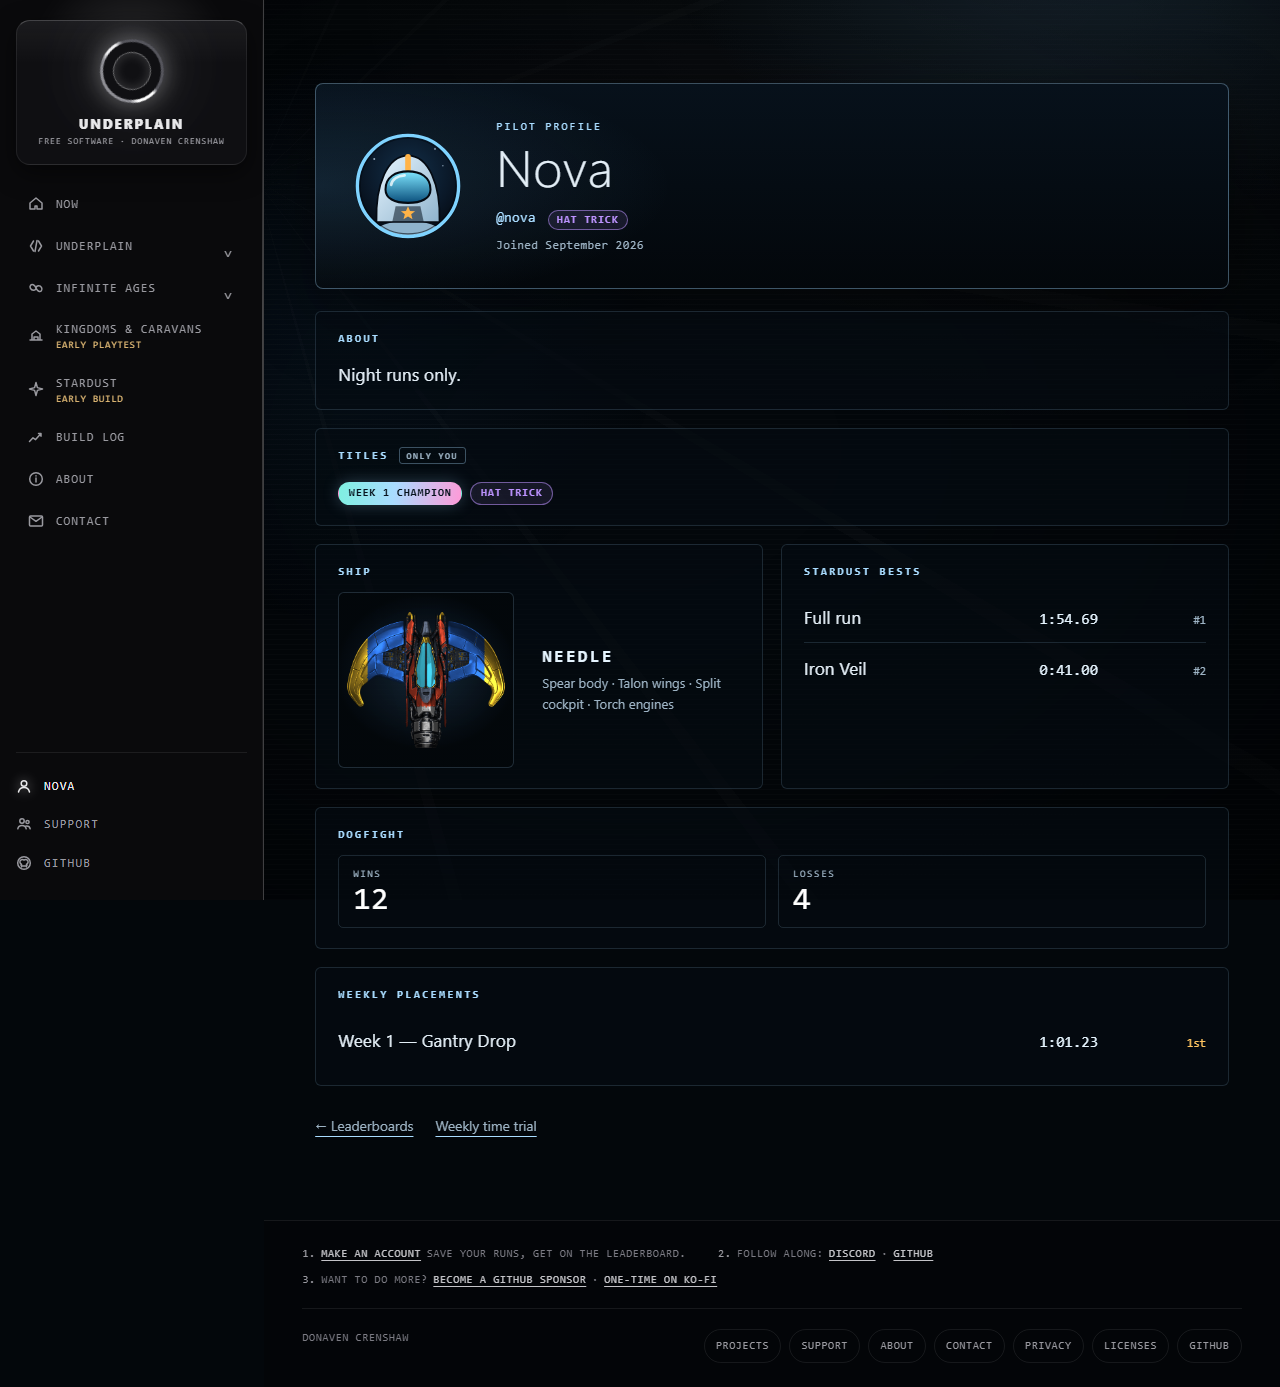
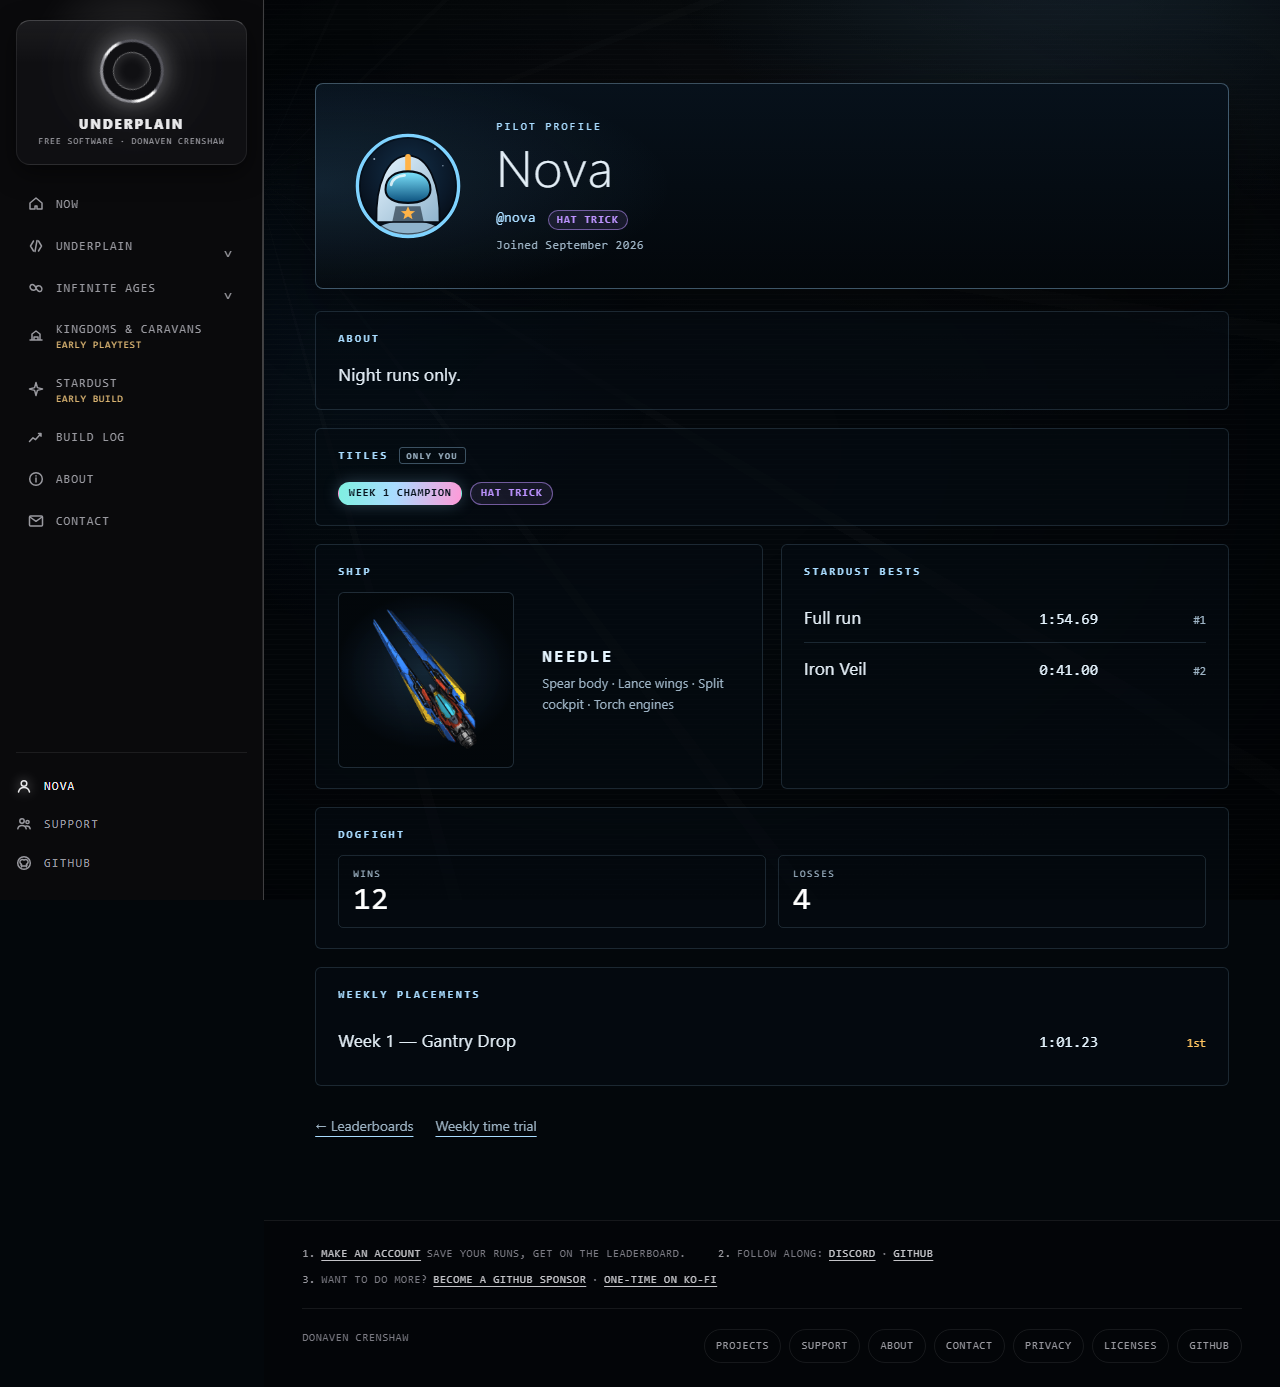
Stardust: custom ships at their real size in every race and on the site
- In the game the equipped ship is drawn at its build size wherever it flies,
  not only on build runs. On standard-ship runs (ranked weekly, circuits) it
  is a skin over the standard hitbox, but the twin-blade Needle no longer
  shrinks to the garage framing.
- On the site, ship cards pose the ship nose up and to the right and scale
  its visible body to fill the frame, so thin ships are not a sliver. Cards
  are a little larger.

Changed region(s): [[0.25, 0.434, 0.4062, 0.558], [0.5, 0.465, 0.5625, 0.496]]

diff --git a/scripts/ship-ui.js b/scripts/ship-ui.js
@@ -62,7 +62,38 @@ export function loadPartChoices(base = window.SITE_BASE || '/') {
 export async function shipCanvas(appearance, { size = 256, base } = {}) {
     if (!appearance || typeof appearance !== 'object') throw new Error('No appearance to draw.');
     const art = await loadShipArt(base);
-    return art.renderAppearance(appearance, null, size);
+    // Render big, then pose it to fill the frame (see posed()).
+    return posed(art.renderAppearance(appearance, null, size * 2), size);
+}
+
+// The game frames every ship by its longest side, so a thin one (the
+// twin-blade Needle is a third as wide as it is long) comes out a sliver in a
+// square card. Pose it like the hangar does, nose up and to the right, and
+// scale so its visible body fills the frame whatever its shape.
+const POSE = (-35 * Math.PI) / 180;
+function posed(src, size) {
+    const w = src.width, h = src.height;
+    const data = src.getContext('2d').getImageData(0, 0, w, h).data;
+    let minX = w, maxX = -1, minY = h, maxY = -1;
+    for (let y = 0; y < h; y += 2) for (let x = 0; x < w; x += 2) {
+        if (data[(y * w + x) * 4 + 3] < 24) continue;
+        if (x < minX) minX = x; if (x > maxX) maxX = x;
+        if (y < minY) minY = y; if (y > maxY) maxY = y;
+    }
+    if (maxX < 0) return src;
+    const cx = (minX + maxX) / 2, cy = (minY + maxY) / 2;
+    const c = Math.abs(Math.cos(POSE)), s = Math.abs(Math.sin(POSE));
+    const bw = maxX - minX + 2, bh = maxY - minY + 2;
+    const scale = (0.92 * size) / Math.max(bw * c + bh * s, bw * s + bh * c);
+    const out = document.createElement('canvas');
+    out.width = out.height = size;
+    const g = out.getContext('2d');
+    g.imageSmoothingQuality = 'high';
+    g.translate(size / 2, size / 2);
+    g.rotate(POSE);
+    g.scale(scale, scale);
+    g.drawImage(src, -cx, -cy);
+    return out;
 }
 
 // Fills `target` with a ship: its picture, its family and the parts it is built

diff --git a/projects/Space-Shooter/gfx/stardustVfx.js b/projects/Space-Shooter/gfx/stardustVfx.js
@@ -1,5 +1,5 @@
 /** Stardust visual language. All helpers preserve Canvas state and never mutate simulation. */
-import { getCourierAppearance, getCourierExhaustPorts } from '../systems/shipAppearance.js';
+import { getCourierAppearance, getCourierExhaustPorts, getEquippedBuild } from '../systems/shipAppearance.js';
 import { buildScale } from '../engine/shipStats.js';
 const TAU = Math.PI * 2;
 const clamp = (v, lo, hi) => Math.max(lo, Math.min(hi, v));
@@ -16,7 +16,12 @@ const STANDARD_PORTS = [{ x: -0.13, y: 0.38, width: 0.13 }, { x: 0.13, y: 0.38, 
 // which sets its size the way scene.ship does for the pilot's own.
 export function drawCourier(ctx, player, scene, keys, unit, img, time, scale = 0.66) {
   // A garage build flying its own physics is drawn at its own size (engine/shipStats.js).
-  const build = player.appearanceCanvas ? player.buildKey : scene?.ship && !player.standardShip ? scene.ship : null;
+  // Drawn at its build's size wherever it flies. On standard-ship runs (ranked
+  // boards, main circuits) a custom ship is a skin over the standard hitbox,
+  // but it should still look the size it is in the garage and in practice.
+  const build = player.appearanceCanvas ? player.buildKey
+    : player.standardShip ? null
+      : scene?.ship || (getCourierAppearance() ? getEquippedBuild() : null);
   const s = unit * 1.6 * scale * (build ? buildScale(build) : 1);
   const active = !scene?.lockedInStart && !scene?.onStartPad && !scene?.showLaunchHint && !scene?.paused;
   const burn = active && scene?.fuel > 0 ? clamp(keys.thrustStrength || 0, 0, 1) : 0;

diff --git a/src/styles/pilot.css b/src/styles/pilot.css
@@ -121,7 +121,7 @@
 .sd-device-tip[hidden] { display: none; }
 
 /* A drawn ship: the game's renderer output with its build underneath. */
-.ship-card { display: grid; grid-template-columns: minmax(0, 14rem) minmax(0, 1fr); align-items: center; gap: 1rem 1.75rem; }
+.ship-card { display: grid; grid-template-columns: minmax(0, 16rem) minmax(0, 1fr); align-items: center; gap: 1rem 1.75rem; }
 .ship-art {
     display: grid;
     place-items: center;
@@ -140,6 +140,6 @@
 .ship-card .ship-parts { font-size: 0.82rem; line-height: 1.6; color: #9db3c4; overflow-wrap: anywhere; }
 @media (max-width: 560px) {
     .ship-card { grid-template-columns: minmax(0, 1fr); justify-items: start; }
-    .ship-art { width: min(100%, 16rem); }
+    .ship-art { width: min(100%, 18rem); }
 }
 @media (prefers-reduced-motion: reduce) { .sd-device { transition: none; } }

diff --git a/src/styles/pages/account.css b/src/styles/pages/account.css
@@ -236,7 +236,7 @@
 /* Your ship: the game's renderer output, its build, and a link to the garage. */
 .acct-ship-body { display: grid; grid-template-columns: minmax(0, 1.2fr) minmax(0, 1fr); gap: var(--space-5) var(--space-6); align-items: center; }
 .acct-card .acct-ship-hint { margin: 0; }
-.acct-ship .ship-card { grid-template-columns: minmax(0, 12rem) minmax(0, 1fr); }
+.acct-ship .ship-card { grid-template-columns: minmax(0, 16rem) minmax(0, 1fr); }
 
 /* Published designs: thumbnails painted by the game's renderer; the family name shows until (or unless) one is drawn. */
 .acct-liveries { display: flex; flex-wrap: wrap; gap: var(--space-3); }

diff --git a/projects/Space-Shooter/systems/shipAppearance.js b/projects/Space-Shooter/systems/shipAppearance.js
@@ -471,6 +471,11 @@ export function getCourierExhaustPorts() {
     width: p.width * layout.scale,
   }));
 }
+/** The equipped ship's build key ("needle:0-0-0-0"), or null for the standard ship. */
+export function getEquippedBuild() {
+  const p = equipped?.parts;
+  return p ? `${equipped.family}:${p.body}-${p.wings}-${p.cockpit}-${p.engines}` : null;
+}
 export function getEquippedAppearance() {
   return equipped ? structuredClone(equipped) : null;
 }
